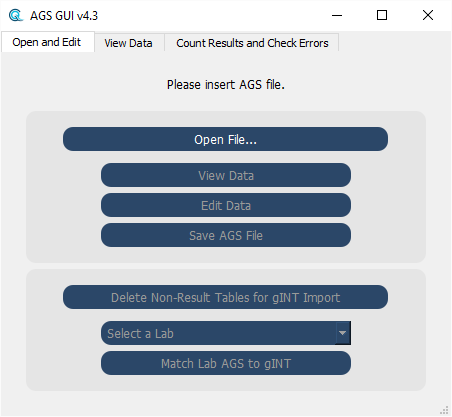
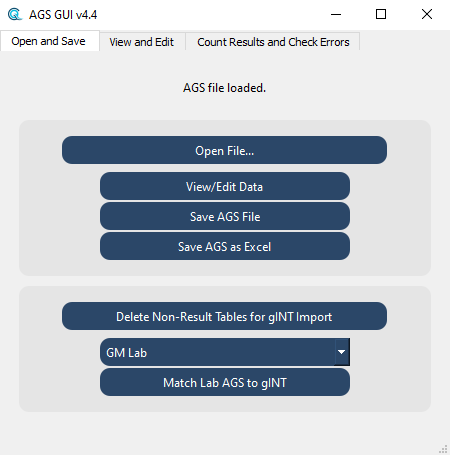
v4.4

diff --git a/README.md b/README.md
@@ -1,80 +1,78 @@
-### **Open, edit and check AGS for import to an access database (gINT)**
+### **Open, edit and check .AGS files**
 <br>
 
 #### Steps for gINT Import:
-     - Open a valid AGS file
+     - Open an AGS file
      - Delete Non-Result Tables
-     - Select a laboratory from the dropdown list, then select Match Lab AGS to gINT
-     - Select a gINT project when prompted by dialogue box (check the gINT is correct)
-     - Once "Matching Complete!" is displayed, select 'Save AGS file'
+     - Select a laboratory from the dropdown list, then select 'Match Lab AGS to gINT'
+     - Select a gINT when prompted by dialogue box (check the gINT is correct)
+     - Once 'Matching Complete!' is displayed, select 'Save AGS file'
      - Save the file when prompted by the dialogue box
      - Open gINT, go to File > Import AGS
-     - Select the AGS file saved via the tool, and select the .gci import correspondence file
+     - Select the saved AGS file, and use the .gci import correspondence file in this repository
 
-- [Open an AGS file](#open-an-ags-file)
-- [View and Edit Data](#view-and-edit-data)
-- [Save AGS file](#save-ags-file)
-- [Count Lab Results](#count-lab-results)
-- [Check AGS for Errors](#check-ags-for-errors)
-- [Delete Non-Result Tables for gINT Import](#delete-non-result-tables-for-gint-import)
-- [Match Lab AGS to gINT](#match-lab-ags-to-gint)
-- [CPT Only Data Export](#cpt-only-data-export)
-- [Lab Only Data Export](#lab-only-data-export)
+- [Open and Save](#open-and-save)
+- [View and Edit](#view-and-edit)
+- [Count Results and Check Errors](#count-results-and-check-errors)
 <br>
 
-<img src="common/images/AGS-GUI.png" data-canonical-src="common/images/AGS-GUI.png"/>
+<img src="common/images/AGS-GUI-readme.png" data-canonical-src="common/images/AGS-GUI-readme.png"/>
 
-#### Open an AGS file
-  - Open any valid AGS files.
-    - There may be an error as follows: Error: Line x does not have the same number of entries as the HEADING.
-    - This occurs when a description or other text field contains a line-break, which alters key formatting of the file. The line-break needs to be removed before opening the file.
+#### Open and Save
+  - Open File: opens any valid AGS files
+    - Use the 'AGS4_package_edit.py' file to replace 'AGS4.py' in <i>Python/lib/site-packages/python_ags4/</i>
+        - This allows misplaced carriage returns characters (line-breaks) to be concatenated onto the line above, fixing the<br>
+        <i>Error: Line x does not have the same number of entries as the HEADING.</i>
+        - This commonly occurs in remark fields '_REM' or comments and prevents the file from being opened with the python_ags4 library
+  - Save File: allows the current state of the loaded AGS to be saved, into either AGS or Excel
+  - Delete Non-Result Tables and gINT data matching
+    - This deletes all non-testing tables with the exception of PROJ and TRAN, so that only testing data is used for importing to gINT
+      - PROJ and TRAN are the minimum required for gINT to recognise the file as valid AGS
+    - Matches records in each table to gINT SPEC data, using the LOCA_ID, SPEC_REF and SPEC_DPTH values
+      - This is tailored for a few onshore labs where patterns in data can be used for data cleaning and manipulation prior to import
+      - Can be utilised for QA of values or missing key fields
+      - Python code can be amended for any SQL database using pyodbc, not specifically gINT. SPEC can be substituted for SAMP, along with any table/header adjustments
 
-#### View and Edit Data
-  - This opens the AGS, which has been extracted as a dictionary of DataFrames, into a QAbstractTableView.
-    - This has some limited functionality of being to edit fields, copy & paste data, delete columns or rows, insert, rename and move columns, and delete groups.
 
-#### Save AGS file
-  - This allows the current state of the loaded AGS to be saved.
-    - This includes edits in PandasGUI, or matching sample data to gINT.
-    - If a filter was used in PandasGUI, it will save the new AGS with the filter applied.
-    - If non-result tables were deleted, they will be deleted in the saved file.
+#### View and Edit
+  - The loaded AGS, extracted as a dictionary of DataFrames, opens groups and data into subclassed QTableViews with a subclassed QAbstractTableModel
+  - There are right-click context menus for the QHeaderView, the QTableView holding the groups and the QTableView holding the data
+    - Editing functions are handled with Pandas (QAbstractTableModel), context menus and the QTableView:
+      - Edit fields (cells) in TableView - all edited data will be in the saved exports of AGS or excel using the button functions
+      - Copy & paste data, including data to and from excel
+      - Delete columns, rows, cells or groups
+      - Insert, rename and move columns
+        - Columns/headers are edited with the header right-click context menu of the headers, QHeaderView
+      - Insert, rename and delete groups
+        - Groups are edited with right-click context menu on the groups, left QTableView
+        - Inserted groups have one column: 'HEADING', with 'UNIT', 'TYPE', 'DATA' as rows
+      - Insert rows
+        - Rows are inserted with the right-click context menu on the data, right QTableView
+        - Inserted rows are always prefixed with 'DATA' in the first column. Without this, the python_ags4 library will not read the row as valid data
+      - Sort data ascending or descending with context menu or on double-click event of a header
+        - Sort state toggles on each double-click, with default as index sorting
+      - Added groups and headers must also be manually added to the DICT group to avoid AGS4 errors
 
-#### Count Lab Results
-  - This checks certain parent groups for specific fields relating to test type.
-    - For triaxial results, like unconsolidated undrained, the sample condition is used to distinguish test type.
-    - Totals of test types for each group can be exported to a .txt file.
 
-#### Check AGS for Errors
-  - This will use the AGS standard dictionary to check the file for errors.
-  - The AGS version in the TRAN group will be used.
-  - Version AGS 4+ supported (e.g. '4.1.1', '4.1', '4.0.4', '4.0.3', '4.0').
-    - This will check the dictionary for fields named as KEY and REQUIRED as part of the error checking process to establish unique records.
-    - Minor errors may arise with fields in DICT with incorrect DICT_STAT, (e.g. if a SPEC_DPTH field is not used as a KEY or REQUIRED field in DICT.DICT_STAT).
-    - Error logs can be exported to a .txt file.
-
-#### Delete Non-Result Tables for gINT Import
-  - This checks the groups found in the loaded AGS file against a set list of groups expected to contain laboratory test results.
-    - This is mainly used remove unwanted groups that may conflict when the file is imported to gINT (e.g. removing SAMP table to not create incorrect duplicate samples), and but also filters data (removing CPT data to improve load times for PandasGUI), and to improve match time for sample data from gINT (by removing non-used tables from the loop).
-    - TRAN and PROJ are the two tables gINT need to class the AGS as readable data (with TRAN needed for the AGS version, and PROJ used as the parent of all other tables) - they are included with lab results and omitted with the correspondence file, to import only relevant data from onshore labs. 
-
-#### Match Lab AGS to gINT
-   - Matches sample data from an AGS file to a gINT database.
-     - Selecting a lab from the dropdown option menu toggles between functions, as different labs require differening conditions for multiple test types to be matched correctly. 
-     - Specific conditions are hard-coded to account for inconsistencies between issues of AGS from specific labs.
-     - As well as amending values and placement of values, it will also rename and reformat fields to be imported into gINT.
-    
-#### CPT Only Data Export
-  - Checks the groups found in the loaded AGS file against a set list of groups expected to contain CPT data, including sesimic.
-    - Deletes all non-essential tables, keeping only CPT data.
-    
-#### Lab Only Data Export
-  - Checks the groups found in the loaded AGS file against a set list of groups expected to contain laboratory test results.
-    - Deletes all non-essential tables, keeping only Lab data as well Geology and Depth Remarks.
+#### Count Results and Check Errors
+  - Count Lab Results: checks most onshore testing groups for fields relating to test type and laboratory
+    - For groups with more than one test type (e.g. GCHM, TREG, TRIG), the sample condition is used to distinguish test type
+    - Totals can be exported to excel
+    - Totals are split between 'Onshore' and 'Offshore' to aid project reporting
+  - Check AGS for Errors: uses the AGS standard dictionary to check for errors
+    - The AGS version in the TRAN group will be used, AGS4+ versions supported (e.g. '4.1.1', '4.1', '4.0.4', '4.0.3', '4.0')
+      - This will check the dictionary for fields named as KEY and REQUIRED as part of the error checking process to establish unique records
+      - Errors may arise in DICT with incorrect DICT_STAT on fields, (e.g. if a SPEC_DPTH field is not used as a KEY or REQUIRED field in DICT.DICT_STAT)
+      - Error logs can be exported to a .txt file
+  - CPT Only Data Export: uses most groups expected to contain CPT data, including seismic
+      - Deletes all non-essential tables, keeping only CPT data
+  - Lab Only Data Export: uses most onshore testing groups
+      - Deletes all non-essential tables, keeping only Lab data as well Geology and Depth Remarks
 
 <br><br>
 
 
-##### Developed for [Geoquip-Marine](https://www.geoquip-marine.com/) using [AGS 4 Data Format](https://www.ags.org.uk/data-format/), [python-ags4](https://pypi.org/project/python-ags4/), [PyQt5](https://pypi.org/project/PyQt5/).
+##### Developed for onshore & offshore geotechnical data for [Geoquip-Marine](https://www.geoquip-marine.com/) using [AGS 4 Data Format](https://www.ags.org.uk/data-format/), [python-ags4](https://pypi.org/project/python-ags4/), [PyQt](https://doc.qt.io/qtforpython-5/) and [Pandas](https://pandas.pydata.org/).
 <br>
 
    <a href="https://www.geoquip-marine.com/"><img src="common/images/GQ_AGS2.PNG" data-canonical-src="common/images/geobig.png"/></a>
